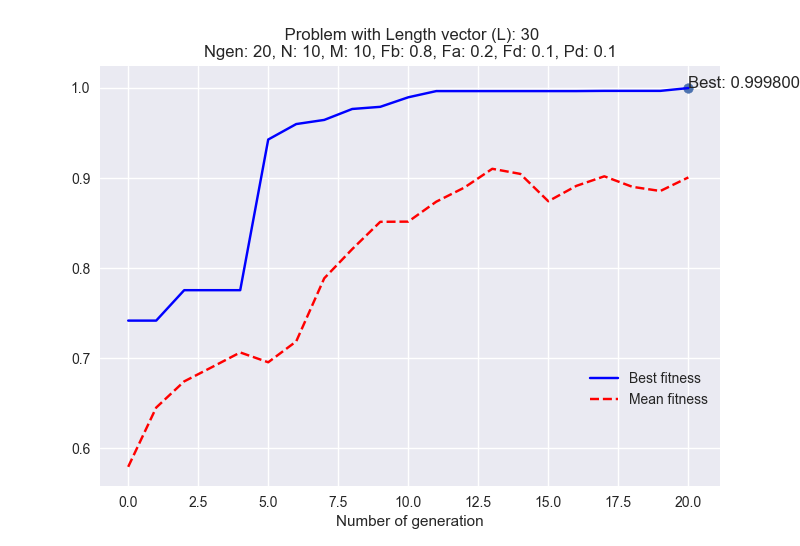
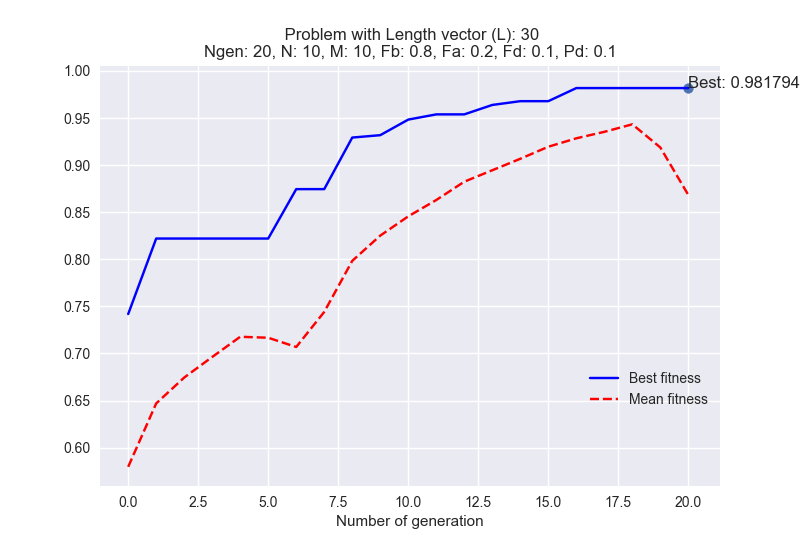
[README] it must contains cro. in the imports! It work in test.ipynb because the utils, fitness are in same path [UPDATE] small doc changes [UPDATE] png in readme

diff --git a/cro/cro.py b/cro/cro.py
@@ -117,7 +117,7 @@ class CRO(object):
         (a,b) = spawners1.shape
         mask = np.random.randint(2, size=[a,b])
         
-        # all zeros and all ones doesn't make sense. Not produces crossover
+        # all zeros and all ones doesn't make sense, Not produces crossover
         pos = np.where(np.sum(mask, axis= 1)==0)[0] 
         mask[pos, np.random.randint(self.L, size=[len(pos)])] = 1
         pos = np.where(np.sum(mask, axis= 1)==1)[0]
@@ -170,7 +170,8 @@ class CRO(object):
 
     def _settle_larvae(self, larvae, larvaefitness,  REEF, REEFpob, REEFfitness, indices):
         """
-        Settle the given larvae in the REEF in the given indices
+        Description:
+            Settle the given larvae in the REEF in the given indices
         """
         REEF[indices] = 1
         REEFpob[indices, :] = larvae
@@ -180,16 +181,16 @@ class CRO(object):
 
     def larvaesettling(self, REEF, REEFpob, REEFfitness, larvae, larvaefitness):
         """
-        function [REEF,REEFpob]=larvaesettling(REEF,REEFpob,ESlarvae,ISlarvae)
-        Settle the best larvae in the reef, eliminating those which are not good enough
+        Description:
+            Settle the best larvae in the reef, eliminating those which are not good enough
         Input:    
             - REEF: coral reef
             - REEFpob: reef population
             - REEFfitness: reef fitness
             - larvae: larvae population
             - larvaefitness: larvae fitness
-            - k: number of oportunities for each larva to settle in the reef
-            - opt: type of optimization ('min' or 'max')
+            - self.k: number of oportunities for each larva to settle in the reef
+            - self.opt: type of optimization ('min' or 'max')
         Output:
             - REEF: new coral reef
             - REEFpob: new reef population

diff --git a/README.md b/README.md
@@ -33,7 +33,7 @@ The following results can be reproduced with command:
 import numpy as np
 import seaborn as sns 
 from cro import *
-from fitness import max_ones
+from cro.fitness import max_ones
 
 ## ------------------------------------------------------
 ## Parameters initialization
@@ -53,10 +53,20 @@ ke = 0.2
 ## ------------------------------------------------------
 
 cro = CRO(Ngen, N, M, Fb, Fa, Fd, r0, k, Pd, max_ones, opt, L, verbose=False, ke=ke)
-(REEF, REEFpob, REEFfitness, ind_best, Bestfitness, Meanfitness) = cro.fit()
+%time (REEF, REEFpob, REEFfitness, ind_best, Bestfitness, Meanfitness) = cro.fit()
+```
+Output:
+
+<img src = 'cro/assets/max_ones_results/max_ones_ngen30_n20_m20_l100_fb07.png' height = '350px'> 
+
+```
+Best coral:  [1 1 1 1 1 1 1 1 1 1 1 1 1 1 1 1 1 1 1 1 1 1 1 1 1 1 1 1 1 1 1 1 1 1 1 1 1
+ 1 1 1 1 1 1 1 1 1 1 1 1 1 1 1 1 1 1 1 1 1 1 1 1 1 1 1 1 1 1 1 1 1 1 1 1 1
+ 1 1 1 1 1 1 1 1 1 1 1 1 1 1 1 1 1 1 1 1 1 1 1 1 1 1]
+Best solution: 100.0
+Wall time: 1.06 s
 ```
 
-<img src = 'cro/assets/max_ones_results/max_ones_ngen75_n40_m40_l100_fb07.png' height = '350px'> 
 
 ### Results for feature selection problem
 
@@ -67,11 +77,13 @@ More examples in this [notebook](cro/test.ipynb)
 from functools import partial
 import numpy as np
 import seaborn as sns 
-from cro import *
-from utils import load_data
 from sklearn.neighbors import KNeighborsClassifier
 from sklearn.metrics import roc_auc_score
-from fitness import feature_selection
+
+from cro import *
+from cro.utils import load_data
+from cro.fitness import feature_selection
+
 
 ## ------------------------------------------------------
 ## Parameters initialization
@@ -110,11 +122,10 @@ Output:
 <img src = 'cro/assets/max_ones_results/voice_feature_selection.png' height = '350px'> 
 
 ```
-Best coral: [1 1 1 0 0 1 0 0 1 1 1 0 1 0 1 0 0 0 0 0 0 0 0 0 0 0 0 0 0 0]
-Best solution: 0.99980063795853269
-CPU times: user 52.3 s, sys: 400 ms, total: 52.7 s
-Wall time: 52.2 s
-['meanfreq' 'sd' 'median' 'IQR' 'sp.ent' 'sfm' 'mode' 'meanfun' 'maxfun']
+Best coral:  [0 0 0 1 0 1 1 0 0 0 0 1 1 0 1 0 1 0 0 0 0 0 0 0 0 0 0 0 0 0]
+Best solution: 0.98179427934
+Wall time: 35.9 s
+['Q25' 'IQR' 'skew' 'centroid' 'meanfun' 'maxfun' 'mindom']
 ```
 
 ## Folder structure
